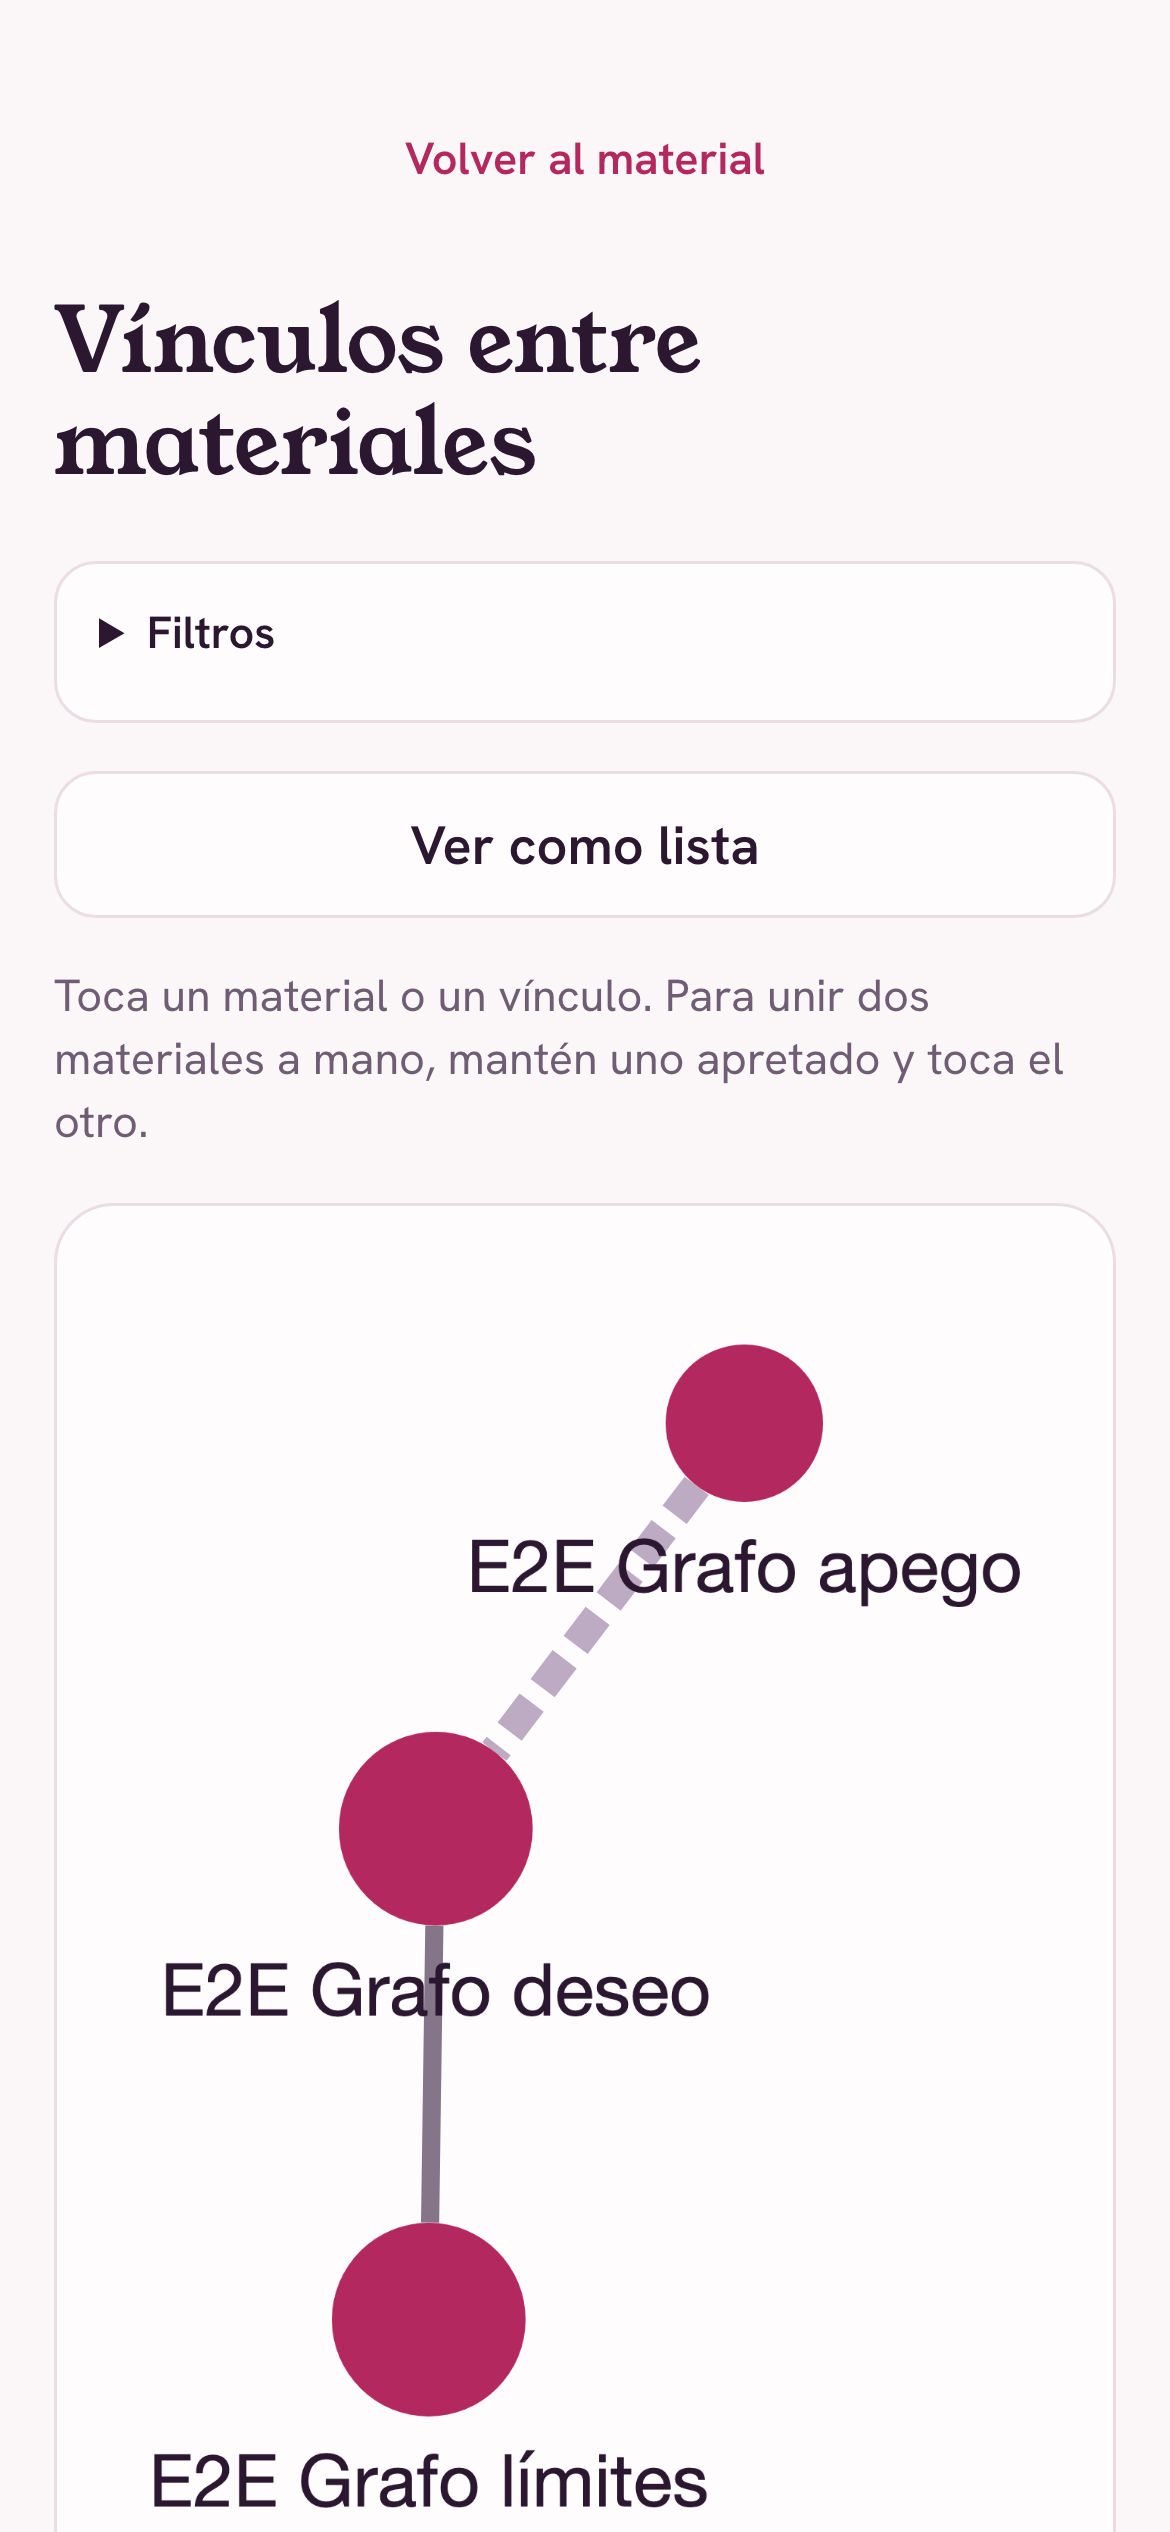
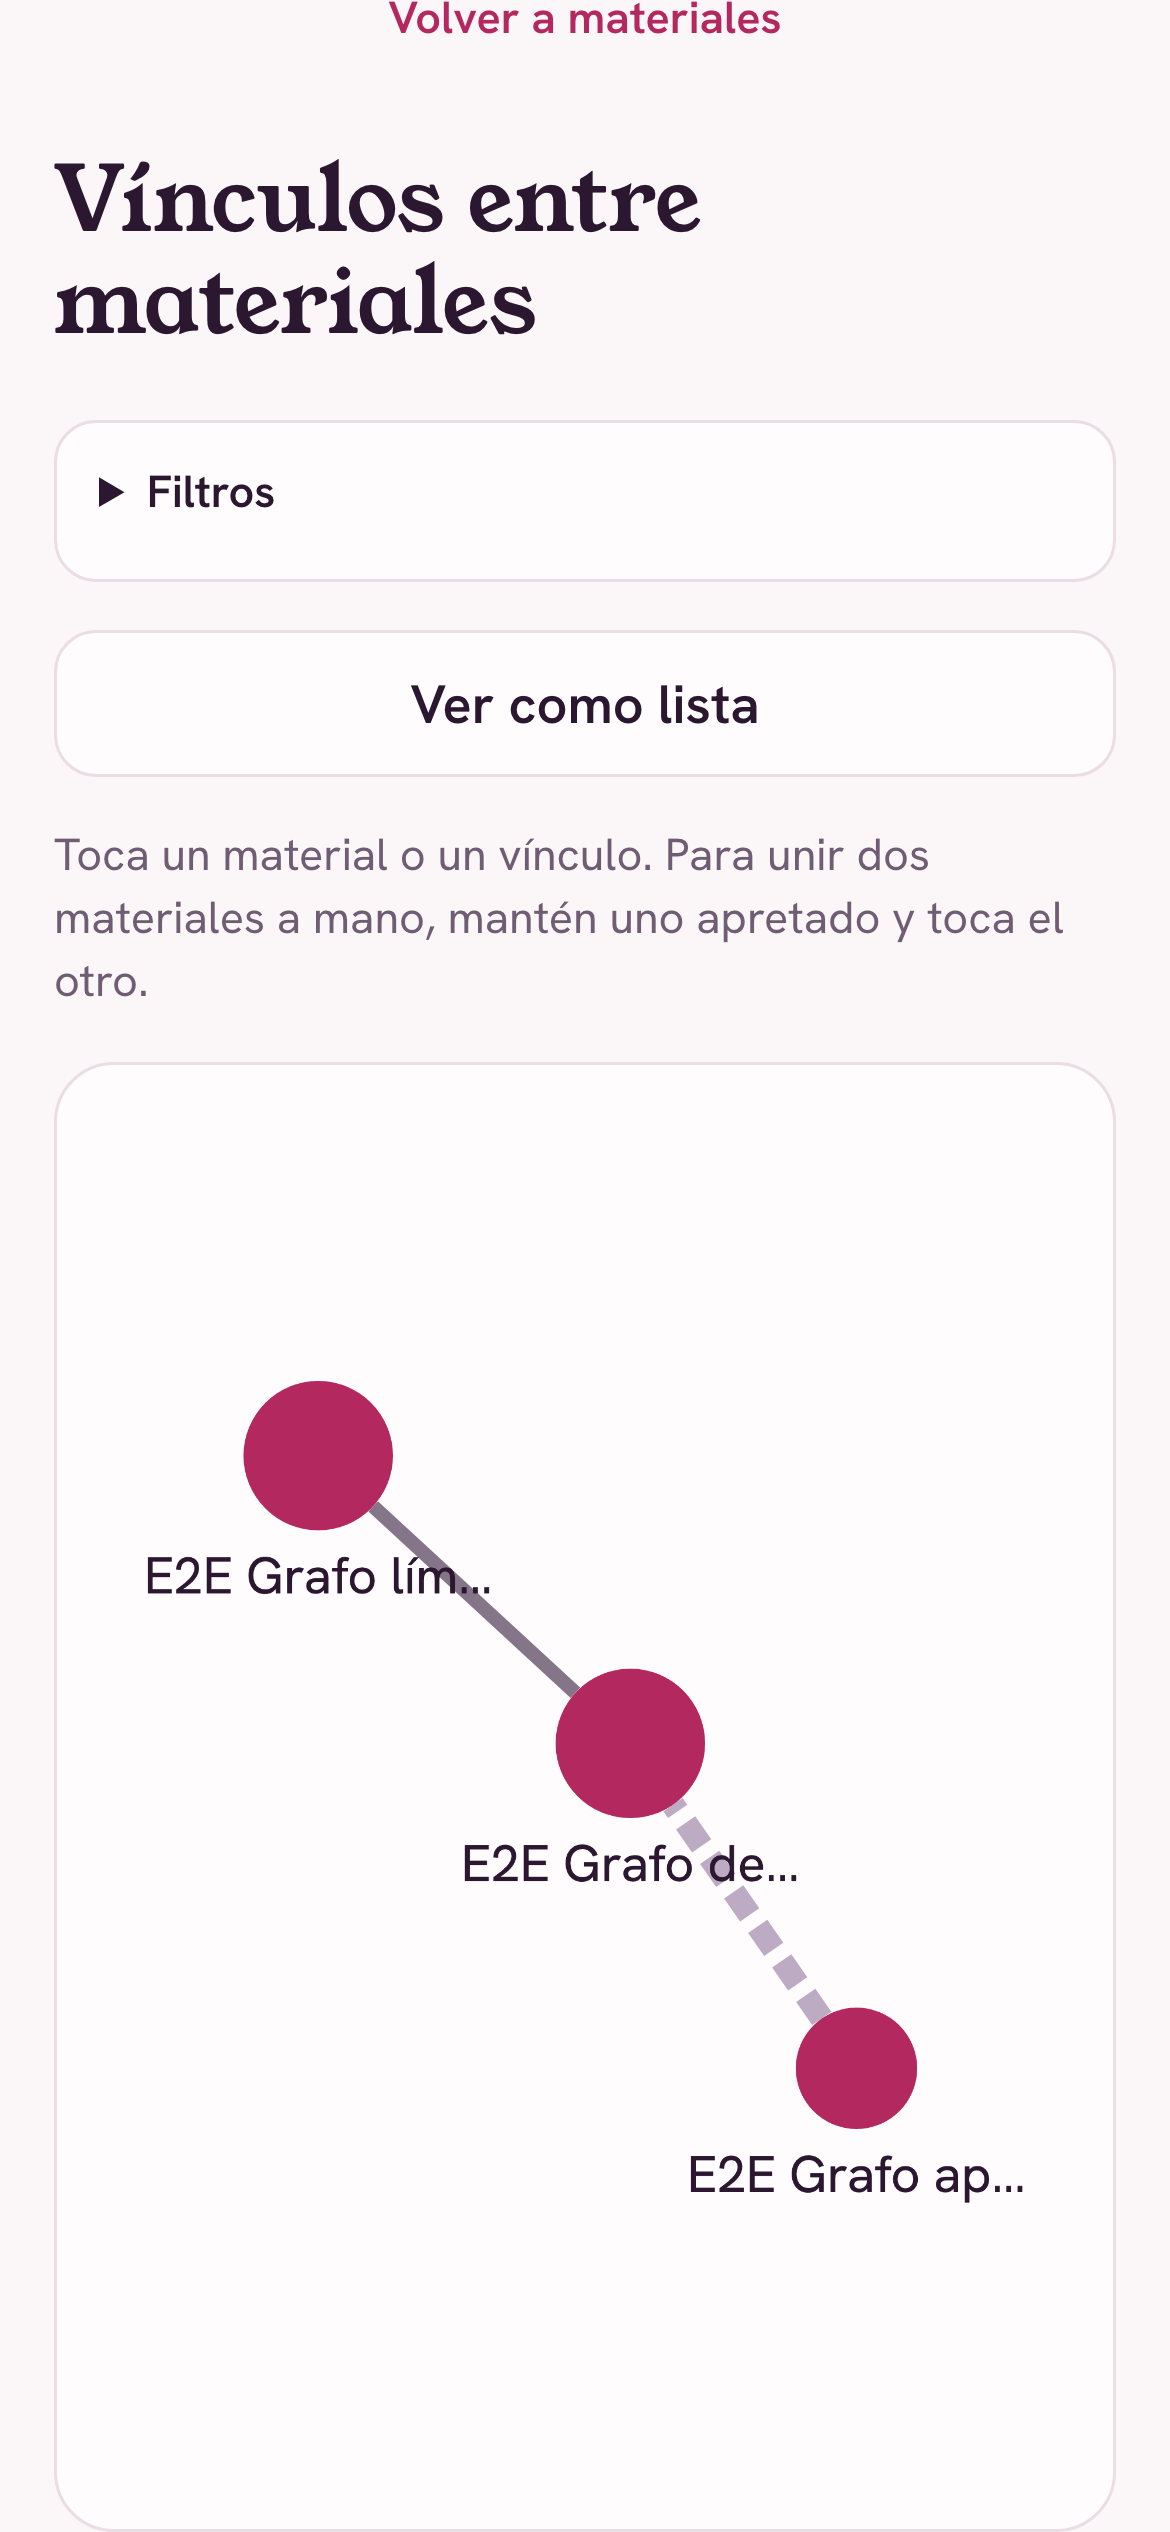
fix: graph labels, back link and tested taps

diff --git a/tests/e2e/grafo.spec.ts b/tests/e2e/grafo.spec.ts
@@ -1,5 +1,5 @@
 import { randomUUID } from "node:crypto"
-import { expect, test } from "@playwright/test"
+import { expect, type Page, test } from "@playwright/test"
 import { capturar, clienteDeServicio } from "./ayudas"
 import { CARPETA_DE_DOCUMENTACION, CORREO_DE_CONI, PREFIJO_DE_PRUEBA } from "./entorno"
 
@@ -55,6 +55,12 @@ async function sembrarVinculo(x: string, y: string, extra: { estado: string; raz
   if (error) throw new Error(error.message)
 }
 
+test("the back link goes to the list of materials", async ({ page }) => {
+  await page.goto("/grafo")
+  await page.getByRole("link", { name: "Volver a materiales" }).click()
+  await expect(page).toHaveURL(/\/$/)
+})
+
 test("Coni sees the suggested links, accepts one and it reads as accepted; the graph draws", async ({ page }) => {
   const apego = await sembrarMaterial("Grafo apego", "Autora Grafo")
   const deseo = await sembrarMaterial("Grafo deseo", "Autora Grafo")
@@ -70,6 +76,7 @@ test("Coni sees the suggested links, accepts one and it reads as accepted; the g
 
   await expect(page.getByTestId("grafo").locator("canvas").first()).toBeVisible()
   await page.waitForTimeout(800)
+  await page.getByTestId("grafo").scrollIntoViewIfNeeded()
   await capturar(page, "ingesta-grafo", CARPETA_DE_DOCUMENTACION)
 
   await page.getByRole("button", { name: "Ver como lista" }).click()
@@ -97,3 +104,115 @@ test("Coni sees the suggested links, accepts one and it reads as accepted; the g
   await fila("Grafo límites").getByRole("button", { name: "Descartar" }).click()
   await expect(fila("Grafo límites")).toHaveCount(0)
 })
+
+interface Punto {
+  x: number
+  y: number
+}
+type Cy = {
+  getElementById: (id: string) => {
+    renderedPosition: () => Punto
+    renderedMidpoint: () => Punto
+    data: (campo: string) => unknown
+    nonempty: () => boolean
+  }
+  nodes: () => { length: number }
+}
+type Contenedor = HTMLElement & { grafo?: Cy }
+
+/** Where an element of the graph is on the page, read from the Cytoscape instance the e2e build exposes. */
+async function lugarDe(page: Page, tipo: "nodo" | "arista", id: string): Promise<Punto> {
+  const lienzo = page.getByTestId("grafo")
+  await lienzo.scrollIntoViewIfNeeded()
+  const handle = await lienzo.elementHandle()
+  if (!handle) throw new Error("No encontré el lienzo del grafo.")
+  await page.waitForFunction(
+    ([el, elemento]) => (el as Contenedor).grafo?.getElementById(String(elemento)).nonempty() === true,
+    [handle, id] as const,
+  )
+  return handle.evaluate(
+    (el, [tipoDeElemento, elemento]) => {
+      const cy = (el as Contenedor).grafo
+      if (!cy) throw new Error("El grafo no está expuesto.")
+      const caja = el.getBoundingClientRect()
+      const e = cy.getElementById(String(elemento))
+      const p = tipoDeElemento === "nodo" ? e.renderedPosition() : e.renderedMidpoint()
+      return { x: caja.left + p.x, y: caja.top + p.y }
+    },
+    [tipo, id] as const,
+  )
+}
+
+async function dato(page: Page, id: string, campo: string): Promise<unknown> {
+  const handle = await page.getByTestId("grafo").elementHandle()
+  if (!handle) throw new Error("No encontré el lienzo del grafo.")
+  return handle.evaluate(
+    (el, [elemento, c]) => (el as Contenedor).grafo?.getElementById(String(elemento)).data(String(c)),
+    [id, campo] as const,
+  )
+}
+
+for (const modo of ["mouse", "touch"] as const) {
+  test(`Coni uses the graph with real ${modo} input: card, edge decision and a link by hand`, async ({ page }) => {
+    const apego = await sembrarMaterial(`Toque ${modo} apego`, "Autora Toque")
+    const deseo = await sembrarMaterial(`Toque ${modo} deseo`, "Autora Toque")
+    const limites = await sembrarMaterial(`Toque ${modo} límites`, "Autora Toque")
+    await sembrarVinculo(apego, deseo, { estado: "sugerido", razon: "Los dos hablan de la distancia.", relevancia: 4 })
+    const idArista = [apego, deseo].sort().join("|")
+    const cdp = await page.context().newCDPSession(page)
+
+    async function tocar(punto: Punto) {
+      if (modo === "mouse") {
+        await page.mouse.move(punto.x, punto.y)
+        await page.mouse.click(punto.x, punto.y, { delay: 60 })
+      } else await page.touchscreen.tap(punto.x, punto.y)
+    }
+    async function mantener(punto: Punto) {
+      if (modo === "mouse") {
+        await page.mouse.move(punto.x, punto.y)
+        await page.mouse.down()
+        await page.waitForTimeout(800)
+        await page.mouse.up()
+        return
+      }
+      await cdp.send("Input.dispatchTouchEvent", { type: "touchStart", touchPoints: [punto] })
+      await page.waitForTimeout(800)
+      await cdp.send("Input.dispatchTouchEvent", { type: "touchEnd", touchPoints: [] })
+    }
+
+    await page.goto("/grafo")
+    await expect(page.getByTestId("grafo").locator("canvas").first()).toBeVisible()
+
+    await tocar(await lugarDe(page, "nodo", apego))
+    const ficha = page.getByRole("dialog", { name: `${PREFIJO_DE_PRUEBA}Toque ${modo} apego` })
+    await expect(ficha).toBeVisible()
+    await expect(ficha.getByRole("link", { name: "Ver ficha" })).toHaveAttribute("href", `/materiales/${apego}`)
+    await ficha.getByRole("button", { name: "Cerrar" }).click()
+    await expect(ficha).toHaveCount(0)
+
+    await tocar(await lugarDe(page, "arista", idArista))
+    const vinculo = page.getByRole("dialog", { name: "Vínculo" })
+    await expect(vinculo.getByText("Los dos hablan de la distancia.")).toBeVisible()
+    await expect(vinculo.getByText(/Cita del primero/)).toBeVisible()
+    await expect(vinculo.getByText(/Cita del segundo/)).toBeVisible()
+    await vinculo.getByRole("button", { name: "Aceptar" }).click()
+    await expect(vinculo).toHaveCount(0)
+    await expect.poll(() => dato(page, idArista, "dashed")).toBe(false)
+    await expect.poll(() => dato(page, idArista, "estado")).toBe("aceptado")
+
+    await mantener(await lugarDe(page, "nodo", apego))
+    await expect(page.getByText(/Toca otro material para unirlo con/)).toBeVisible()
+    await tocar(await lugarDe(page, "nodo", limites))
+    const nuevo = page.getByRole("dialog", { name: "Vincular a mano" })
+    await expect(nuevo).toBeVisible()
+    await nuevo.getByLabel("Tipo de vínculo").selectOption("contradice")
+    await nuevo.getByRole("button", { name: "Crear vínculo" }).click()
+    await expect(nuevo).toHaveCount(0)
+    const idNueva = [apego, limites].sort().join("|")
+    await expect.poll(() => dato(page, idNueva, "estado")).toBe("aceptado")
+    await expect.poll(() => dato(page, idNueva, "dashed")).toBe(false)
+    await expect.poll(() => dato(page, idNueva, "tipo")).toBe("contradice")
+
+    await clienteDeServicio().from("materiales").delete().in("id", [apego, deseo, limites])
+  })
+}

diff --git a/app/(app)/grafo/grafo-cytoscape.tsx b/app/(app)/grafo/grafo-cytoscape.tsx
@@ -6,6 +6,8 @@ import { TOKEN_DE_SELECCION, TOKEN_DE_TEXTO } from "@/lib/ingesta/grafo"
 
 const MS_DE_PRESION_LARGA = 500
 
+export type NodoConGrafo = HTMLDivElement & { grafo?: Core }
+
 interface Propiedades {
   elementos: ElementDefinition[]
   /** The node held down, waiting for a second tap to become a link. */
@@ -32,7 +34,7 @@ function conColores(elementos: ElementDefinition[]): ElementDefinition[] {
 export function GrafoCytoscape(propiedades: Propiedades) {
   const contenedor = useRef<HTMLDivElement>(null)
   const cy = useRef<Core | null>(null)
-  const ultimaPresion = useRef(0)
+  const ultimaPresion = useRef({ cuando: 0, id: "" })
   const alDia = useRef(propiedades)
   alDia.current = propiedades
 
@@ -42,6 +44,7 @@ export function GrafoCytoscape(propiedades: Propiedades) {
     if (!nodo) return
     import("cytoscape").then(({ default: cytoscape }) => {
       if (!vivo) return
+      const tipografia = getComputedStyle(document.body).fontFamily
       const instancia = cytoscape({
         container: nodo,
         elements: conColores(alDia.current.elementos),
@@ -58,9 +61,10 @@ export function GrafoCytoscape(propiedades: Propiedades) {
               height: "data(size)",
               label: "data(label)",
               color: color(TOKEN_DE_TEXTO),
-              "font-size": 12,
+              "font-family": tipografia,
+              "font-size": 11,
               "text-wrap": "ellipsis",
-              "text-max-width": "96px",
+              "text-max-width": "76px",
               "text-valign": "bottom",
               "text-margin-y": 5,
               "border-width": 0,
@@ -86,19 +90,24 @@ export function GrafoCytoscape(propiedades: Propiedades) {
         layout: { name: "cose", animate: false, padding: 24, nodeRepulsion: () => 9000 },
       })
       instancia.on("tap", "node", (evento: EventObject) => {
-        // A long press ends with a tap on the same node: it already did its job.
-        if (Date.now() - ultimaPresion.current < MS_DE_PRESION_LARGA) return
-        alDia.current.alTocarNodo(String(evento.target.id()))
+        // A long press can end with a tap on the same node: it already did its job.
+        const id = String(evento.target.id())
+        const { cuando, id: sostenido } = ultimaPresion.current
+        if (id === sostenido && Date.now() - cuando < MS_DE_PRESION_LARGA) return
+        alDia.current.alTocarNodo(id)
       })
       instancia.on("tap", "edge", (evento: EventObject) => alDia.current.alTocarArista(String(evento.target.id())))
       instancia.on("tap", (evento: EventObject) => {
         if (evento.target === instancia) alDia.current.alTocarFondo()
       })
       instancia.on("taphold", "node", (evento: EventObject) => {
-        ultimaPresion.current = Date.now()
-        alDia.current.alMantenerNodo(String(evento.target.id()))
+        const id = String(evento.target.id())
+        ultimaPresion.current = { cuando: Date.now(), id }
+        alDia.current.alMantenerNodo(id)
       })
       cy.current = instancia
+      // Only the e2e build sets this: the specs read positions from the instance to aim real pointer input.
+      if (process.env.NEXT_PUBLIC_EXPONER_GRAFO === "1") (nodo as NodoConGrafo).grafo = instancia
     })
     return () => {
       vivo = false

diff --git a/app/(app)/grafo/page.tsx b/app/(app)/grafo/page.tsx
@@ -20,7 +20,7 @@ export default async function Grafo() {
   return (
     <main className="mx-auto grid w-full max-w-[560px] content-start gap-5.5 px-4.5 pt-[max(2rem,env(safe-area-inset-top))] pb-8">
       <Link href="/" className={clasesDeBoton({ variante: "callado", tamano: "chico" })}>
-        Volver al material
+        Volver a materiales
       </Link>
       <h1 className="font-serif text-display text-balance">Vínculos entre materiales</h1>
       <VistaDelGrafo materiales={materiales} vinculos={vinculos} teorias={TEORIAS} />

diff --git a/playwright.config.ts b/playwright.config.ts
@@ -77,6 +77,7 @@ export default defineConfig({
         SUPABASE_SERVICE_ROLE_KEY: CLAVE_DE_SERVICIO,
         CORREO_CONI: CORREO_DE_CONI,
         CORREO_WAV: CORREO_DE_WAV,
+        NEXT_PUBLIC_EXPONER_GRAFO: "1",
         DISPARO_DE_PRUEBA: "1",
         DISPARO_DE_PRUEBA_ARCHIVO: ARCHIVO_DE_DISPAROS,
         R2_ENDPOINT: URL_DEL_ALMACEN,
